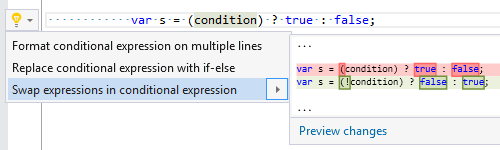
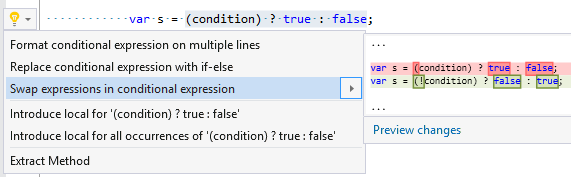
Change span of "Swap..." refactorings

diff --git a/source/Refactorings/Refactoring/IfStatementRefactoring.cs b/source/Refactorings/Refactoring/IfStatementRefactoring.cs
@@ -10,8 +10,10 @@ namespace Pihrtsoft.CodeAnalysis.CSharp.Refactoring
     {
         public static async Task ComputeRefactoringsAsync(RefactoringContext context, IfStatementSyntax ifStatement)
         {
+            bool isTopmostIf = IfElseChainAnalysis.IsTopmostIf(ifStatement);
+
             if (ifStatement.IfKeyword.Span.Contains(context.Span)
-                && IfElseChainAnalysis.IsTopmostIf(ifStatement))
+                && isTopmostIf)
             {
                 if (context.Settings.IsAnyRefactoringEnabled(
                         RefactoringIdentifiers.AddBracesToIfElse,
@@ -48,20 +50,22 @@ namespace Pihrtsoft.CodeAnalysis.CSharp.Refactoring
                             });
                     }
                 }
+            }
 
-                if (context.Settings.IsRefactoringEnabled(RefactoringIdentifiers.SwapStatementsInIfElse)
-                    && SwapStatementInIfElseRefactoring.CanRefactor(context, ifStatement))
-                {
-                    context.RegisterRefactoring(
-                        "Swap statements",
-                        cancellationToken =>
-                        {
-                            return SwapStatementInIfElseRefactoring.RefactorAsync(
-                                context.Document,
-                                ifStatement,
-                                cancellationToken);
-                        });
-                }
+            if (context.Settings.IsRefactoringEnabled(RefactoringIdentifiers.SwapStatementsInIfElse)
+                && isTopmostIf
+                && ifStatement.Span.Equals(context.Span)
+                && SwapStatementInIfElseRefactoring.CanRefactor(context, ifStatement))
+            {
+                context.RegisterRefactoring(
+                    "Swap statements",
+                    cancellationToken =>
+                    {
+                        return SwapStatementInIfElseRefactoring.RefactorAsync(
+                            context.Document,
+                            ifStatement,
+                            cancellationToken);
+                    });
             }
 
             if (context.Settings.IsRefactoringEnabled(RefactoringIdentifiers.AddBooleanComparison)

diff --git a/source/Refactorings/Refactoring/BinaryExpressionRefactoring.cs b/source/Refactorings/Refactoring/BinaryExpressionRefactoring.cs
@@ -87,7 +87,7 @@ namespace Pihrtsoft.CodeAnalysis.CSharp.Refactoring
                 && binaryExpression.Left?.IsMissing == false
                 && binaryExpression.Right?.IsMissing == false
                 && binaryExpression.IsKind(SyntaxKind.LogicalAndExpression, SyntaxKind.LogicalOrExpression)
-                && binaryExpression.OperatorToken.Span.Contains(context.Span))
+                && binaryExpression.Span.Equals(context.Span))
             {
                 context.RegisterRefactoring(
                     "Swap expressions",

diff --git a/source/Refactorings/Refactoring/SwapExpressionsInConditionalExpressionRefactoring.cs b/source/Refactorings/Refactoring/SwapExpressionsInConditionalExpressionRefactoring.cs
@@ -14,7 +14,7 @@ namespace Pihrtsoft.CodeAnalysis.CSharp.Refactoring
             return conditionalExpression.Condition != null
                 && conditionalExpression.WhenTrue != null
                 && conditionalExpression.WhenFalse != null
-                && conditionalExpression.Condition.Span.Contains(context.Span);
+                && conditionalExpression.Span.Equals(context.Span);
         }
 
         public static async Task<Document> RefactorAsync(
